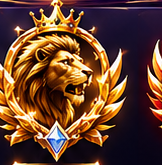
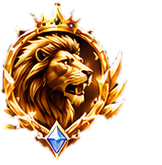
R101: ترتيب صفحة الغرف + قائمة، حذف غرفتك من القائمة، القوانين رسالة بالدردشة بدل النافذة، اللودو يركب بالشاشة، الملف الشخصي مرتب، شارات بدون خلفية مقصوصة
Claude-Session: https://claude.ai/code/session_013Dw5YXk6gdhBXsie6KboY7

diff --git a/public/social-directory-r30.js b/public/social-directory-r30.js
@@ -1,7 +1,7 @@
 import {roomPhotoFields} from './room-photo-r31.js?v=room-photo-r31';
 import { roomTier, roomChipHTML, roomLevelClasses, ROOM_LEVEL_MAX } from './room-level-r67.js?v=r67av';
 import {tierChip,perkActive} from './unified/room-rank-r58.js?v=r63a';
-import { bannersHTML } from './unified/home-r68.js?v=r95';
+import { bannersHTML } from './unified/home-r68.js?v=r101';
 /* LA3BAK R30 directory: pure HTML/data helpers. The existing parent controller
  * owns requests, delegated actions, keyboard handling, dialogs and repaint focus.
  * No fake rooms, ratings, rankings, image imports, storage or event listeners. */
@@ -120,7 +120,7 @@ function roomRow(room, options) {
   const rt = typeof room.rank?.tier === 'string' ? room.rank.tier : '';
   const sub = String(room.description || '').trim() || [room.roomTag ? TAGS[room.roomTag] : 'دردشة', room.country ? COUNTRIES[room.country] || room.country : '', room.roomMode === 'social' ? 'تعارف' : ''].filter(Boolean).join(' • ');
   const ic = lv >= 100 ? 'crown' : R68_TAGICON[room.roomTag] || 'games';
-  return `<li class="so-dir-row r68-dir-row${current ? ' is-current' : ''} rl-${tier} ${roomLevelClasses(lv)}${rt && perkActive(rt, 'list') ? ' rr-list-' + esc(rt) : ''}" data-room-tier="${esc(rt)}" data-room-level="${lv}" data-so-directory-room="${esc(room.id)}" data-so-current="${current}"><button type="button" class="so-dir-enter" data-so-action="enter" data-id="${esc(room.id)}" aria-label="${esc(`${current ? 'العودة إلى' : 'دخول'} غرفة ${name}`)}"${disabled ? ' disabled' : ''}><span class="so-dir-cover">${cover}</span><span class="so-dir-room-copy"><span class="so-dir-room-title"><b dir="auto">${esc(name)}</b>${lv >= 300 ? '<i class="rl67-crown-ic" aria-hidden="true">👑</i>' : ''}</span><small class="r68-dir-sub" dir="auto">${esc(sub)}</small><span class="r68-dir-tags" dir="rtl">${rt ? tierChip(rt, 'd' + esc(room.id).slice(0, 6)) : ''}${room.weekRank ? `<span class="wk62 wk62-${room.weekRank}">${['🥇', '🥈', '🥉'][room.weekRank - 1]}</span>` : ''}${owned ? '<span class="so-dir-owned">غرفتك</span>' : ''}${current ? '<span class="so-dir-current-label">أنت هنا</span>' : ''}<span class="r68-dir-lv" dir="ltr"><i aria-hidden="true">◆</i>Lv.${lv}</span></span></span><span class="r68-dir-side"><span class="r68-dir-ic" aria-hidden="true">${R68_ICONS[ic]}</span><span class="r68-dir-count" dir="ltr">${hasCount(room) ? esc(room.count) : '—'}${BARS}</span></span></button></li>`;
+  return `<li class="so-dir-row r68-dir-row${current ? ' is-current' : ''} rl-${tier} ${roomLevelClasses(lv)}${rt && perkActive(rt, 'list') ? ' rr-list-' + esc(rt) : ''}" data-room-tier="${esc(rt)}" data-room-level="${lv}" data-so-directory-room="${esc(room.id)}" data-so-current="${current}"><button type="button" class="so-dir-enter" data-so-action="enter" data-id="${esc(room.id)}" aria-label="${esc(`${current ? 'العودة إلى' : 'دخول'} غرفة ${name}`)}"${disabled ? ' disabled' : ''}><span class="so-dir-cover">${cover}</span><span class="so-dir-room-copy"><span class="so-dir-room-title"><b dir="auto">${esc(name)}</b>${lv >= 300 ? '<i class="rl67-crown-ic" aria-hidden="true">👑</i>' : ''}</span><small class="r68-dir-sub" dir="auto">${esc(sub)}</small><span class="r68-dir-tags" dir="rtl">${rt ? tierChip(rt, 'd' + esc(room.id).slice(0, 6)) : ''}${room.weekRank ? `<span class="wk62 wk62-${room.weekRank}">${['🥇', '🥈', '🥉'][room.weekRank - 1]}</span>` : ''}${owned ? '<span class="so-dir-owned">غرفتك</span>' : ''}${current ? '<span class="so-dir-current-label">أنت هنا</span>' : ''}<span class="r68-dir-lv" dir="ltr"><i aria-hidden="true">◆</i>Lv.${lv}</span></span></span><span class="r68-dir-side"><span class="r68-dir-ic" aria-hidden="true">${R68_ICONS[ic]}</span><span class="r68-dir-count" dir="ltr">${hasCount(room) ? esc(room.count) : '—'}${BARS}</span></span></button>${owned ? `<button type="button" class="r101-del" data-so-action="dir-delete" data-id="${esc(room.id)}" aria-label="${esc('حذف غرفة ' + name)}"${disabled ? ' disabled' : ''}><svg viewBox="0 0 24 24" width="18" height="18" aria-hidden="true"><path d="M4 7h16M9 7V4h6v3M6 7l1 13h10l1-13M10 11v6M14 11v6" stroke="currentColor" stroke-width="2" fill="none" stroke-linecap="round" stroke-linejoin="round"/></svg></button>` : ''}</li>`;
 }
 function emptyState(state, filtered, disabled) {
   let title, body, art = 'room';
@@ -143,7 +143,7 @@ export function renderDirectory({data = null, ui = {}, busy = false, loading = f
   const filtered = Boolean(state.query.trim() || state.category !== 'all' || state.country);
   const initialLoading = loading && data == null;
   const panel = `${state.tab === 'mine' ? `<div class="so-dir-mine-panel" id="so-directory-mine-panel-r30" role="tabpanel" aria-labelledby="so-directory-mine-${state.mineTab}-r30"><div class="so-dir-create-banner"><span class="so-dir-banner-icon">${icon('room')}</span><div><b>مساحة على ذوقك</b><p>أنشئ غرفة وابدأ حديثاً يناسبك.</p></div><button type="button" class="so-dir-create-button" data-so-action="create-room"${actionDisabled ? ' disabled' : ''}><span>إنشاء الغرفة</span></button></div>` : ''}<div class="so-dir-list-heading"><h2>${state.tab === 'mine' ? esc(MINE_TABS[state.mineTab]) : state.tab === 'popular' ? 'أكثر الغرف هدايا هالأسبوع' : state.tab === 'rank' ? 'ترتيب الغرف حسب الرتبة' : 'الغرف المتاحة'}</h2>${data != null ? `<span>${esc(rooms.length)} غرفة${state.tab === 'popular' ? ' · حسب عدد الأعضاء' : ''}</span>` : ''}</div>${initialLoading ? '<p class="so-dir-loading" role="status">جارٍ تحميل الغرف من الخادم…</p>' : rooms.length ? `<ul class="so-dir-rooms" aria-label="قائمة الغرف">${rooms.map(room => roomRow(room, {data, followed, owned, actorId, busy, disabled})).join('')}</ul>` : error && data == null ? '<div class="so-dir-empty"><h2>تعذر تحميل الغرف</h2><p>أعد المحاولة عند عودة الاتصال. لا نعرض غرفاً دون بيانات.</p></div>' : state.tab==='mine'&&state.mineTab==='recent'&&!filtered&&data?.preferences?.remember!==true?`<div class="so-dir-empty" role="status"><span class="so-dir-empty-icon">${icon('clock')}</span><h2>سجل الغرف غير مفعّل</h2><p>تقدر تفعّل حفظ الغرف الأخيرة من إعدادات خصوصيتك. المتابعة تعمل بدون حفظ السجل.</p><button type="button" class="so-dir-text-button" data-so-action="preferences">إعدادات الخصوصية</button></div>` : emptyState(state, filtered, actionDisabled)}${state.tab === 'mine' ? '</div>' : ''}`;
-  return `<section class="so-directory-r30" dir="rtl" aria-labelledby="so-directory-title-r30" aria-busy="${Boolean(busy || loading)}"><header class="so-dir-header r68-dir-head"><span class="r68-dir-logo" aria-hidden="true"><i>👑</i><b>لعبك</b><small>LA3BAK</small></span><h1 id="so-directory-title-r30" class="so-dir-sr">الغرف</h1><nav class="r68-dir-tabs" dir="rtl"><div class="r68-dir-main" role="tablist">${['mine','all','country'].map(v=>`<button type="button" role="tab" class="${state.tab===v?'is-on':''}" aria-selected="${state.tab===v}" data-so-action="directory-tab" data-value="${v}">${TABS[v]}</button>`).join('')}</div><div class="r68-dir-tools"><a class="r68-news" href="#/events" aria-label="الأخبار والفعاليات"><span aria-hidden="true">🔥</span><b>أخبار</b></a><button type="button" class="r68-dir-ibtn" data-so-action="create-room" aria-label="إنشاء غرفة"${actionDisabled ? ' disabled' : ''}><span aria-hidden="true">🎉</span></button><button type="button" class="r68-dir-ibtn${state.searchOpen ? ' is-active' : ''}" data-so-action="directory-search" data-value="${state.searchOpen ? 'hide' : 'show'}" aria-label="${state.searchOpen ? 'إغلاق البحث' : 'البحث في الغرف'}" aria-expanded="${state.searchOpen}" aria-controls="so-directory-search-r30">${icon(state.searchOpen ? 'close' : 'search')}</button></div></nav></header><div data-h68-banner-host>${bannersHTML(null)}</div><div class="r68-dir-big"><button type="button" class="is-gold${state.tab==='popular'?' is-on':''}" data-so-action="directory-tab" data-value="popular"><b>هدايا الغرفة</b><span aria-hidden="true">🎁</span></button><button type="button" class="is-violet${state.tab==='rank'?' is-on':''}" data-so-action="directory-tab" data-value="rank"><b>رُتبة الغرفة</b><span class="r68-t" aria-hidden="true">T</span></button></div><div class="so-dir-search" id="so-directory-search-r30"${state.searchOpen ? '' : ' hidden'}><label for="so-directory-query-r30">${icon('search')}<span class="so-dir-sr">البحث في الغرف</span></label><input id="so-directory-query-r30" type="search" name="directoryQuery" data-so-directory-query value="${esc(state.query)}" placeholder="ابحث باسم الغرفة أو تصنيفها" maxlength="120" autocomplete="off" enterkeyhint="search" dir="auto"></div><div class="so-dir-feedback" aria-live="polite">${error ? `<p class="so-dir-error" role="alert">${esc(error)}</p>` : ''}${notice ? `<p class="so-dir-notice" role="status">${esc(notice)}</p>` : ''}${disabled ? '<p class="so-dir-error" role="status">الغرف الاجتماعية متوقفة مؤقتاً من الإدارة.</p>' : ''}${loading && !initialLoading ? '<p class="so-dir-update" role="status">جارٍ تحديث القائمة…</p>' : ''}</div><div class="so-dir-panel" id="so-directory-panel-r30" role="tabpanel" aria-labelledby="so-directory-main-${state.tab}-r30">${state.tab === 'mine' ? tabRail(MINE_TABS, state.mineTab, 'directory-mine', 'غرفتي', 'mine') : ''}${categoryRail(state)}${state.tab === 'country' || state.country ? countryRail(data, state) : ''}${panel}</div></section>`;
+  return `<section class="so-directory-r30" dir="rtl" aria-labelledby="so-directory-title-r30" aria-busy="${Boolean(busy || loading)}"><header class="so-dir-header r68-dir-head"><span class="r68-dir-logo" aria-hidden="true"><i>👑</i><b>لعبك</b><small>LA3BAK</small></span><h1 id="so-directory-title-r30" class="so-dir-sr">الغرف</h1><nav class="r68-dir-tabs" dir="rtl"><div class="r68-dir-main" role="tablist">${['mine','all','country'].map(v=>`<button type="button" role="tab" class="${state.tab===v?'is-on':''}" aria-selected="${state.tab===v}" data-so-action="directory-tab" data-value="${v}">${TABS[v]}</button>`).join('')}</div><div class="r68-dir-tools"><button type="button" class="r68-dir-ibtn r101-menu" data-lb-shell="menu" aria-label="القائمة" aria-expanded="false"><svg viewBox="0 0 24 24" width="22" height="22" aria-hidden="true"><path d="M4 7h16M4 12h16M4 17h16" stroke="currentColor" stroke-width="2.4" stroke-linecap="round" fill="none"/></svg></button><a class="r68-news" href="#/events" aria-label="الأخبار والفعاليات"><span aria-hidden="true">🔥</span><b>أخبار</b></a><button type="button" class="r68-dir-ibtn" data-so-action="create-room" aria-label="إنشاء غرفة"${actionDisabled ? ' disabled' : ''}><span aria-hidden="true">🎉</span></button><button type="button" class="r68-dir-ibtn${state.searchOpen ? ' is-active' : ''}" data-so-action="directory-search" data-value="${state.searchOpen ? 'hide' : 'show'}" aria-label="${state.searchOpen ? 'إغلاق البحث' : 'البحث في الغرف'}" aria-expanded="${state.searchOpen}" aria-controls="so-directory-search-r30">${icon(state.searchOpen ? 'close' : 'search')}</button></div></nav></header><div data-h68-banner-host>${bannersHTML(null)}</div><div class="r68-dir-big"><button type="button" class="is-gold${state.tab==='popular'?' is-on':''}" data-so-action="directory-tab" data-value="popular"><b>هدايا الغرفة</b><span aria-hidden="true">🎁</span></button><button type="button" class="is-violet${state.tab==='rank'?' is-on':''}" data-so-action="directory-tab" data-value="rank"><b>رُتبة الغرفة</b><span class="r68-t" aria-hidden="true">T</span></button></div><div class="so-dir-search" id="so-directory-search-r30"${state.searchOpen ? '' : ' hidden'}><label for="so-directory-query-r30">${icon('search')}<span class="so-dir-sr">البحث في الغرف</span></label><input id="so-directory-query-r30" type="search" name="directoryQuery" data-so-directory-query value="${esc(state.query)}" placeholder="ابحث باسم الغرفة أو تصنيفها" maxlength="120" autocomplete="off" enterkeyhint="search" dir="auto"></div><div class="so-dir-feedback" aria-live="polite">${error ? `<p class="so-dir-error" role="alert">${esc(error)}</p>` : ''}${notice ? `<p class="so-dir-notice" role="status">${esc(notice)}</p>` : ''}${disabled ? '<p class="so-dir-error" role="status">الغرف الاجتماعية متوقفة مؤقتاً من الإدارة.</p>' : ''}${loading && !initialLoading ? '<p class="so-dir-update" role="status">جارٍ تحديث القائمة…</p>' : ''}</div><div class="so-dir-panel" id="so-directory-panel-r30" role="tabpanel" aria-labelledby="so-directory-main-${state.tab}-r30">${state.tab === 'mine' ? tabRail(MINE_TABS, state.mineTab, 'directory-mine', 'غرفتي', 'mine') : ''}${categoryRail(state)}${state.tab === 'country' || state.country ? countryRail(data, state) : ''}${panel}</div></section>`;
 }
 
 function optionsFrom(raw, approved, emptyAllowed = false) {

diff --git a/public/sw.js b/public/sw.js
@@ -1,10 +1,10 @@
 /* لعبك — عامل الخدمة: تحديث الشبكة أولاً، واللعب الجماعي يحتاج اتصال. */
 const CACHE_PREFIX = 'la3bak-shell-';
-const VER = CACHE_PREFIX + 'r100';
+const VER = CACHE_PREFIX + 'r101';
 const LEGACY_SHELL_CACHES = ['la3bak-rank-vip-1'];
 // Deduplicate exact URLs; keep the existing network-first/offline policy.
 // The unused legacy codewords image is not precached; the shipped R45 cover stays.
-const SHELL = [...new Set(['/root-navigation-r50.js?v=back-nav-r51', '/preview/assets/game-minaboli-3d-r49.webp', '/preview/assets/game-codewords-3d-r45.webp', '/emerald-r44.css?v=r58q', '/unified/emerald-room-r44.css?v=r58p', '/unified/gift-compact-r38.css?v=r58p','/unified/room-owner-start-r33.css?v=r58q','/social-room-tools-r33.css?v=r58p','/community-access-r37.js','/unified/notifications.js?v=r91','/social-room-tools-r33.js?v=r58p','/room-start-r33.js','/social-gift-context-r33.js','/gift3d-variants-r33.js','/unified/pk-reference-r32.css?v=r58p','/social-challenge.js?v=r57','/social-challenge.css?v=r58p','/room-photo-r31.js?v=room-photo-r31','/unified/room-photo-r31.css?v=r58q','/social-directory-r30.js?v=r95','/unified/room-directory-r30.css?v=r58q','/unified/room-style-r27.css?v=r58p', '/unified/reference-room-r28.css?v=r58q', '/unified/reference-panels-r28.css?v=r58q', '/unified/reference-gifts-r28.css?v=r58q', '/unified/gift-colors-r29.css?v=r58p', '/unified/room-dock-r29.css?v=r58p', '/cannon3d-r29.css?v=r58p', '/cannon3d-r29.js?v=r71-cannon-r29','/social-room-controls-r27.js?v=r67al','/gift3d-r27.js?v=r71-r44','/gift3d-r27.css','/gift-assets-r27.js?v=r69zz-r35','/social-gift-runtime-r27.js?v=r71','/social-cannon-ui-r27.js?v=r91','/social-challenge.js?v=r57','/social-challenge.css?v=r58p','/store-r23.css?v=r58p','/frame-art-r23.css?v=r58i2','/entrancefx-r23.js?v=r68z38e','/entrancefx-r23.css?v=emerald-r44','/preview/profile-head-r20.css?v=r58p', '/preview/profile-head-r22.css?v=r58p','/preview/profile-list-r19.css?v=r58p','/unified/room-composer-r18.css?v=r58p','/unified/global-search.js?v=r69zj-search-r17','/unified/global-search.css?v=r58p','/unified/search-icon.js?v=global-search-r17','/preview/profile-frame-r4.css?v=r58p', '/brand-royal-r16.css?v=r58p', '/preview/profile-host-r15.css?v=emerald-r44','/unified/ranks.js?v=r91', '/unified/ranks.css?v=r58p', '/unified/vip.js?v=r91', '/unified/vip.css?v=r58p', '/unified/vip-noble-r52.js?v=r91', '/unified/vip-noble-r52.css?v=r58q', '/profile-social-r53.js?v=r91', '/preview/profile-r53.css?v=r58q', '/preview/rank-overview.js?v=r66b', '/preview/rank-overview.css?v=r58p', '/preview/rank-current.css?v=r58p', '/unified/backgrounds.js?v=r91', '/unified/backgrounds.css?v=r58q', '/background-art.js?v=r58p', '/', '/preview.html?v=release-r14', '/app.css?v=r58q', '/reference-store.css?v=r58p', '/unified/home.css?v=r58p', '/unified/home.js?v=r95', '/unified/unified.css?v=r60d', '/unified/shell.js?v=r96', '/preview/profile.css?v=r58p', '/preview/profile-integration.css?v=r58p', '/preview/profile-match.css?v=r58q', '/preview/page-shell.css?v=r58p', '/preview/shop-modern.css?v=r58p', '/preview/app.js?v=r100', '/preview/profile.js?v=r98', '/preview/assets/profile/ui-icons-inline.js?v=r58p', '/preview/assets/profile/rank-display.js', '/pwa.js?v=r100', '/boot.js?v=r64a', '/theme.js?v=r64a', '/theme.js?v=r64a', '/royal-gameplay.css?v=r58p', '/royal-navigation.css?v=r58p', '/auth.js', '/manifest.webmanifest', '/favicon.svg', '/apple-touch-icon.png', '/game-availability.js?v=games-royal-1', '/games.js?v=r91',   '/offline.js?v=games-royal-1', '/unified/games.js?v=r91', '/unified/social.js?v=r96', '/rank-perks-r56.js?v=r67t', '/rank-perks-r56.css?v=r56', '/unified/social-r55.css?v=r69d', '/unified/social.css?v=r58p', '/social-voice.js?v=r69zr-r14', '/social-assets/majlis-atmosphere.webp', '/preview/rank-current.css?v=r58p', '/preview/rank-overview.js?v=r66b', '/unified/payments.js?v=r68i', '/account-tools.js?v=ui-correction-r3', '/account-verification.css?v=r58q', '/unified/social-room-r7.css?v=r58p', '/social-gifts.js?v=r91', '/social-assets/voice-night-r7.jpg', '/social-assets/friends-room-cover.webp', '/unified/wallet.js?v=r68i', '/shop.js?v=r91', '/unified/store.js?v=r91', '/unified/backgrounds.js?v=r91', '/unified/payments.js?v=r68i', '/unified/payments.css?v=r58p', '/unified/social-settings-r12.css?v=r58p', '/social-benefits.js?v=r91', '/unified/social-benefits-r12.css?v=r58q', '/gifts.js?v=r91', '/gift-reward-ui.js?v=r68i', '/unified/gift-rewards-r13.css?v=r58p', '/giftart.js?v=r68i-r14', '/unified/game-voice-r9.css?v=r58p'])];
+const SHELL = [...new Set(['/root-navigation-r50.js?v=back-nav-r51', '/preview/assets/game-minaboli-3d-r49.webp', '/preview/assets/game-codewords-3d-r45.webp', '/emerald-r44.css?v=r58q', '/unified/emerald-room-r44.css?v=r58p', '/unified/gift-compact-r38.css?v=r58p','/unified/room-owner-start-r33.css?v=r58q','/social-room-tools-r33.css?v=r58p','/community-access-r37.js','/unified/notifications.js?v=r91','/social-room-tools-r33.js?v=r58p','/room-start-r33.js','/social-gift-context-r33.js','/gift3d-variants-r33.js','/unified/pk-reference-r32.css?v=r58p','/social-challenge.js?v=r57','/social-challenge.css?v=r58p','/room-photo-r31.js?v=room-photo-r31','/unified/room-photo-r31.css?v=r58q','/social-directory-r30.js?v=r101','/unified/room-directory-r30.css?v=r58q','/unified/room-style-r27.css?v=r58p', '/unified/reference-room-r28.css?v=r58q', '/unified/reference-panels-r28.css?v=r58q', '/unified/reference-gifts-r28.css?v=r58q', '/unified/gift-colors-r29.css?v=r58p', '/unified/room-dock-r29.css?v=r58p', '/cannon3d-r29.css?v=r58p', '/cannon3d-r29.js?v=r71-cannon-r29','/social-room-controls-r27.js?v=r67al','/gift3d-r27.js?v=r71-r44','/gift3d-r27.css','/gift-assets-r27.js?v=r69zz-r35','/social-gift-runtime-r27.js?v=r71','/social-cannon-ui-r27.js?v=r91','/social-challenge.js?v=r57','/social-challenge.css?v=r58p','/store-r23.css?v=r58p','/frame-art-r23.css?v=r58i2','/entrancefx-r23.js?v=r68z38e','/entrancefx-r23.css?v=emerald-r44','/preview/profile-head-r20.css?v=r58p', '/preview/profile-head-r22.css?v=r58p','/preview/profile-list-r19.css?v=r58p','/unified/room-composer-r18.css?v=r58p','/unified/global-search.js?v=r69zj-search-r17','/unified/global-search.css?v=r58p','/unified/search-icon.js?v=global-search-r17','/preview/profile-frame-r4.css?v=r58p', '/brand-royal-r16.css?v=r58p', '/preview/profile-host-r15.css?v=emerald-r44','/unified/ranks.js?v=r101', '/unified/ranks.css?v=r58p', '/unified/vip.js?v=r101', '/unified/vip.css?v=r58p', '/unified/vip-noble-r52.js?v=r101', '/unified/vip-noble-r52.css?v=r58q', '/profile-social-r53.js?v=r91', '/preview/profile-r53.css?v=r58q', '/preview/rank-overview.js?v=r101', '/preview/rank-overview.css?v=r58p', '/preview/rank-current.css?v=r58p', '/unified/backgrounds.js?v=r91', '/unified/backgrounds.css?v=r58q', '/background-art.js?v=r58p', '/', '/preview.html?v=release-r14', '/app.css?v=r58q', '/reference-store.css?v=r58p', '/unified/home.css?v=r58p', '/unified/home.js?v=r101', '/unified/unified.css?v=r60d', '/unified/shell.js?v=r101', '/preview/profile.css?v=r58p', '/preview/profile-integration.css?v=r58p', '/preview/profile-match.css?v=r58q', '/preview/page-shell.css?v=r58p', '/preview/shop-modern.css?v=r58p', '/preview/app.js?v=r101', '/preview/profile.js?v=r101', '/preview/assets/profile/ui-icons-inline.js?v=r58p', '/preview/assets/profile/rank-display.js', '/pwa.js?v=r101', '/boot.js?v=r64a', '/theme.js?v=r64a', '/theme.js?v=r64a', '/royal-gameplay.css?v=r58p', '/royal-navigation.css?v=r58p', '/auth.js', '/manifest.webmanifest', '/favicon.svg', '/apple-touch-icon.png', '/game-availability.js?v=games-royal-1', '/games.js?v=r91',   '/offline.js?v=games-royal-1', '/unified/games.js?v=r91', '/unified/social.js?v=r101', '/rank-perks-r56.js?v=r67t', '/rank-perks-r56.css?v=r56', '/unified/social-r55.css?v=r69d', '/unified/social.css?v=r58p', '/social-voice.js?v=r69zr-r14', '/social-assets/majlis-atmosphere.webp', '/preview/rank-current.css?v=r58p', '/preview/rank-overview.js?v=r101', '/unified/payments.js?v=r68i', '/account-tools.js?v=ui-correction-r3', '/account-verification.css?v=r58q', '/unified/social-room-r7.css?v=r58p', '/social-gifts.js?v=r91', '/social-assets/voice-night-r7.jpg', '/social-assets/friends-room-cover.webp', '/unified/wallet.js?v=r68i', '/shop.js?v=r91', '/unified/store.js?v=r91', '/unified/backgrounds.js?v=r91', '/unified/payments.js?v=r68i', '/unified/payments.css?v=r58p', '/unified/social-settings-r12.css?v=r58p', '/social-benefits.js?v=r91', '/unified/social-benefits-r12.css?v=r58q', '/gifts.js?v=r91', '/gift-reward-ui.js?v=r68i', '/unified/gift-rewards-r13.css?v=r58p', '/giftart.js?v=r68i-r14', '/unified/game-voice-r9.css?v=r58p'])];
 self.addEventListener('install', (e) => {
   // R69zz: نحفظ الصفحة الرئيسية والكود المدموج بالجوال، عشان التطبيق يفتح على طول حتى لو النت ضعيف
   const bundle = (c) => fetch('/', { cache: 'reload' }).then((r) => (r.ok ? r.text() : '')).then((h) => Promise.all([...new Set([...h.matchAll(/\/b\/(?:app|c)-[\w-]+\.(?:js|css)/g)].map((m) => m[0]))].map((u) => c.add(new Request(u, { cache: 'reload' })).catch(() => {})))).catch(() => {});
@@ -24,7 +24,7 @@ self.addEventListener('fetch', (e) => {
   // الحين: الملف اللي فيه رقم نسخة (?v=) ما يتغير أبدًا → من الكاش على طول. الصور والملفات الثابتة بدون رقم → من الكاش ونحدّثها بالخلفية.
   // الصفحة نفسها (HTML) وملف sw → من الشبكة أول (عشان التحديثات توصل على طول)، والكاش لو ما فيه نت.
   const put = (res) => { if (res && res.ok && res.type === 'basic') { const copy = res.clone(); e.waitUntil(caches.open(VER).then((c) => c.put(req, copy)).catch(() => {})); } return res; };
-  const isPage = req.mode === 'navigate' || url.pathname === '/' || /\.(?:html|webmanifest)$/.test(url.pathname) || url.pathname === '/sw.js?v=r100';
+  const isPage = req.mode === 'navigate' || url.pathname === '/' || /\.(?:html|webmanifest)$/.test(url.pathname) || url.pathname === '/sw.js?v=r101';
   if (isPage) {
     /* R78: لو النت بطيء (أكثر من 3 ثواني) نفتح النسخة المحفوظة على طول مثل التطبيق، والجديدة تتحفظ بالخلفية للمرة الجاية */
     const cached = async () => { const c = await caches.open(VER); return (await c.match(req)) || (req.mode === 'navigate' ? await c.match('/') : undefined); };

diff --git a/public/app-feel-r78.css b/public/app-feel-r78.css
@@ -179,3 +179,73 @@ html body #view [data-lb-page="social"] .lb-copy79,html body #view [data-lb-page
 #view .pf97-head h1{margin:6px 0 4px;font-size:22px}
 #view .pf97-head p{margin:0;opacity:.8;font-size:14px}
 #view .pf97-login .lpu-login{display:grid;gap:14px;margin-top:12px}
+
+/* ===== R101: صفحة الغرف مرتبة ===== */
+html,body{overflow-x:hidden}
+.lb-unified{overflow-x:clip}
+#view .so-directory-r30 .r68-dir-head{gap:4px}
+#view .so-directory-r30 .r68-dir-logo{padding-top:4px!important}
+#view .so-directory-r30 .r68-dir-tools{gap:6px!important;align-items:center}
+#view .so-directory-r30 .r101-menu{order:-1;color:#fff}
+#view .so-directory-r30 [data-h68-banner-host]{display:none!important}
+#view .so-directory-r30 .r68-dir-big{display:flex!important;gap:8px!important;margin:6px 0 10px!important}
+#view .so-directory-r30 .r68-dir-big button{flex:1;height:44px!important;min-height:0!important;border-radius:14px!important;font-size:14px!important;padding:0 12px!important;display:flex;align-items:center;justify-content:center;gap:8px;box-shadow:none!important}
+#view .so-directory-r30 .r68-dir-big button b{font-size:14px!important}
+#view .so-directory-r30 .r68-dir-big button span{font-size:20px!important;width:26px!important;height:26px!important;line-height:26px!important;min-width:0!important}
+#view .so-directory-r30 .r68-dir-big .r68-t{font-size:14px!important;border-width:1px!important}
+#view .so-directory-r30 .so-dir-tabs{display:flex!important;gap:4px!important;background:rgba(255,255,255,.06);border-radius:999px;padding:4px!important;border:0!important;margin:4px 0 10px!important;box-shadow:none!important}
+#view .so-directory-r30 .so-dir-tabs button{flex:1;border:0!important;border-radius:999px!important;background:transparent!important;color:#d9ccef!important;font-size:14px!important;padding:8px 6px!important;min-height:0!important;box-shadow:none!important}
+#view .so-directory-r30 .so-dir-tabs button[aria-selected="true"]{background:linear-gradient(90deg,#f5c542,#e0a92e)!important;color:#2a1600!important;font-weight:800}
+#view .so-directory-r30 .so-dir-tabs button::after,#view .so-directory-r30 .so-dir-tabs::after{display:none!important}
+#view .so-directory-r30 .so-dir-categories{margin:0 0 10px!important}
+#view .so-directory-r30 .so-dir-chip{height:34px!important;min-height:0!important;padding:0 14px!important;font-size:13px!important}
+#view .so-directory-r30 .so-dir-create-banner{padding:10px 12px!important;border-radius:16px!important;min-height:0!important}
+#view .so-directory-r30 .so-dir-create-banner b{color:#fff!important;font-size:15px}
+#view .so-directory-r30 .so-dir-create-banner p{color:#cbbbe6!important;margin:2px 0 0!important;font-size:12.5px}
+#view .so-directory-r30 .so-dir-create-banner .so-dir-banner-icon{color:#f5c542}
+#view .so-directory-r30 .so-dir-create-button{background:linear-gradient(90deg,#f5c542,#e0a92e)!important;color:#2a1600!important;border:0!important;font-weight:800;padding:8px 14px!important;border-radius:12px!important}
+#view .so-directory-r30 .so-dir-empty{padding:22px 16px!important}
+#view .so-directory-r30 .so-dir-empty-icon{width:46px!important;height:46px!important;border-radius:14px!important}
+#view .so-directory-r30 .so-dir-empty h2{font-size:16px!important;margin:8px 0 4px!important}
+#view .so-directory-r30 .so-dir-empty p{font-size:13px!important}
+#view .so-directory-r30 .so-dir-empty a,#view .so-directory-r30 .so-dir-empty button{background:transparent!important;color:#f5c542!important;border:1px solid #f5c54288!important;border-radius:12px!important}
+/* صفوف الغرف أصغر */
+#view .so-directory-r30 .so-dir-rooms{gap:8px!important}
+#view .so-directory-r30 .r68-dir-row{position:relative}
+#view .so-directory-r30 .r68-dir-row .so-dir-enter{min-height:0!important;padding:10px!important;gap:10px!important}
+#view .so-directory-r30 .r68-dir-row .so-dir-cover{width:58px!important;height:58px!important;min-width:58px!important;border-radius:14px!important}
+#view .so-directory-r30 .r68-dir-row .so-dir-initial{font-size:26px!important}
+#view .so-directory-r30 .r68-dir-row .so-dir-room-title b{font-size:15px!important}
+#view .so-directory-r30 .r68-dir-row .r68-dir-sub{font-size:12px!important;margin:1px 0 3px!important}
+#view .so-directory-r30 .r101-del{position:absolute;top:50%;left:74px;transform:translateY(-50%);width:32px;height:32px;border-radius:50%;border:1px solid #ff6b8a66;background:#3a0f2a;color:#ff8aa3;display:grid;place-items:center;z-index:2}
+/* صندوق الهدايا العائم أصغر وما يغطي المحتوى */
+.rl69-fab{transform:scale(.62);transform-origin:left bottom}
+/* R101: اللعبة داخل الغرفة تاخذ المساحة الفعلية تحت الشريط (قبل كانت أطول من الشاشة وتنقص من تحت) */
+.gv-game-surface{container-type:size;padding:0!important;background:#140a26!important}
+@supports (height:1cqh){
+  html body .gv-game-surface :is(.jk-screen.v2,.cr-screen,.cw-screen){--rg-height:100cqh;--rg-width:100cqw}
+}
+.gv-game-surface :is(.jk-screen.v2){background:#140a26!important}
+/* ===== R101: الملف الشخصي مرتب ===== */
+#view .pf68 .pf68-av{width:124px!important;height:124px!important;margin:-110px auto 0!important}
+#view .pf68 .pf68-portrait,#view .pf68 .pf68-ring{width:120px!important;height:120px!important}
+#view .pf68 .pf68-ring .avatar-wrap{width:110px!important;height:110px!important;overflow:hidden;border-radius:50%}
+#view .pf68 .pf68-ring .avatar-wrap>svg,#view .pf68 .pf68-ring .avatar-wrap>img,#view .pf68 .pf68-ring .avatar-wrap .avatar-svg{width:100%!important;height:100%!important;object-fit:cover;border-radius:50%}
+#view .pf68 .pf68-cam{width:30px!important;height:30px!important}
+/* الاسم في سطر لحاله تحت الصورة، وتحته الأزرار */
+#view .pf68 .pf68-mid{grid-template-columns:auto 1fr auto!important;grid-template-areas:"who who who" "lv . edit"!important;row-gap:10px!important;padding:14px 14px 0!important;margin-top:4px}
+#view .pf68 .pf68-who{grid-area:who;min-width:0}
+#view .pf68 .pf68-lv{grid-area:lv;justify-self:start!important}
+#view .pf68 .pf68-edit{grid-area:edit;justify-self:end;height:34px!important;min-height:0!important;padding:0 12px!important;font-size:13px!important}
+#view .pf68 .pf68-name{font-size:20px!important;flex-wrap:wrap;row-gap:4px}
+#view .pf68 .pf68-name>span{max-width:220px!important}
+#view .pf68 .pf68-vip{font-size:12px!important;padding:1px 8px!important}
+#view .pf68 .pf68-id{font-size:14px!important;margin-top:6px!important}
+#view .pf68 .pf68-id .aid68{transform:scale(.78);transform-origin:center}
+#view .pf68 .pf68-lvmedal{width:40px!important;height:40px!important}
+#view .pf68 .pf68-lvmedal i{top:-11px!important;font-size:15px!important}
+#view .pf68 .pf68-lvmedal small{font-size:8px!important}
+#view .pf68 .pf68-lvmedal b{font-size:14px!important}
+#view .pf68 .pf68-bio{margin-top:10px!important}
+/* شاراتي: الصورة كاملة بدون قص */
+#view .pf68 :is(.pf68-badges,[class*="badge"]) img{object-fit:contain!important;background:transparent!important}

diff --git a/public/unified/social.js b/public/unified/social.js
@@ -4,7 +4,7 @@ import {createRoomToolsR33} from '../social-room-tools-r33.js?v=r58p';
 import {SOCIAL_GAME_LABELS_R47,renderSocialGame,normalizeSocialGameActionR47,createSocialGamesR47} from '../social-games-r47.js?v=r58p';
 import {renderUpgradePanel,roomUpgradeConfirmationR47,roomUpgradeErrorR47} from '../room-upgrade-r47.js?v=build-all-r47';
 import {roomPhotoFields,createRoomPhotoPicker} from '../room-photo-r31.js?v=room-photo-r31';
-import {renderDirectory,renderCreateFields,validateCreate} from '../social-directory-r30.js?v=r95';
+import {renderDirectory,renderCreateFields,validateCreate} from '../social-directory-r30.js?v=r101';
 import {createOwnerRoomStart,confirmedOwnerSeat,startOwnerVoice,ownerStartFeedback} from '../room-start-r33.js?v=room-owner-start-r33';
 import {themeName,themeCards,applyRoomTheme,seatLockCards} from '../social-room-controls-r27.js?v=r67al';
 import {framed as frameOwnedPortrait} from '../shop.js?v=r91';
@@ -441,7 +441,7 @@ function roomMenuGridHTML(c,ui,council){
     !c.ctx.gameRoom?panelTile('supporters','heart','الداعمين'):'',
     tile('info','info','معلومات الغرفة'),
     !joined?tile('join-room','plus','دخول الغرفة','','is-primary'):'',
-    mine&&!c.ctx.gameRoom?tile('room-delete','trash','حذف الغرفة','','is-danger'):'',
+    mine?tile('room-delete','trash','حذف الغرفة','','is-danger'):'',
   ].filter(Boolean).join('');
   return `<nav class="so-menu-grid-r55" data-so-room-tools aria-label="قائمة الغرفة">${tiles}</nav>`;
 }
@@ -641,6 +641,8 @@ function chatBase69(c,council){
 }
 /* R69zs: تحذير عدم الإساءة أول ما تدخل أي غرفة صوتية */
 function roomWarn69(c,force){
+  /* R101: بدل النافذة اللي تسكّر الشاشة، القوانين تطلع كرسالة إعلان داخل الدردشة */
+  return;
   const id=c.snapshot?.room?.id;if(!id||c.warn69===id||c.snapshot?.current?.roomId!==id)return;if(!force&&c.ctx.gameRoom&&document.documentElement.classList.contains('gv-game-open'))return;c.warn69=id;
   queueMicrotask(()=>{
     document.querySelector('.rw69')?.remove();
@@ -1227,6 +1229,8 @@ export function mount(root,ctx={}) {
       if(action==='seat'&&c.snapshot.preferences?.adultAcknowledged!==true)return requireAdult(async()=>{await ensureSeat();await voiceConnect(c);});
       if(action==='seat') {const council=arr(c.snapshot?.room?.councils).find(x=>x.id===id);if(!council)throw Error('المجلس غير متاح.');const seats=Number(council.seats),count=Math.max(Number(council.count)||0,arr(council.members).length);if(!Number.isFinite(seats)||count>=seats)throw Error('لا يوجد مقعد متاح الآن. حدّث الحالة.');if(currentCouncil(c)?.id===id){if(councilModerator(c)){return openDialog('دعوة صديق إلى مقعد متاح',field('targetId','رقم اللاعب العام أو المميز','text','',64)+'<p class="so-note">الدعوة لا تحجز مقعدًا ولا تتجاوز السعة أو إعدادات اللاعب.</p>',async f=>command(c,'council:invite',{roomId:c.routeRoom,councilId:id,targetId:f.elements.targetId.value.trim()}),'إرسال الدعوة');}return openDialog('أنت في المجلس بالفعل','<p>لديك مقعد في هذا المجلس. لا يمكن أخذ مقعد ثانٍ. يمكنك مشاركة رابط الغرفة أو انتظار انضمام صديق.</p><div class="so-actions">'+button('share','مشاركة رابط الغرفة')+'</div>',null,'إغلاق');}if(council.canJoin){await command(c,'council:join',{roomId:c.routeRoom,councilId:id});if(currentCouncil(c))await voiceConnect(c);return;}if(council.canRequest)return command(c,'council:request',{roomId:c.routeRoom,councilId:id});throw Error('لا يمكنك الانضمام إلى هذا المجلس حاليًا.');}
       if(action==='refresh') return read(c);
+      /* R101: حذف غرفتك من القائمة مباشرة */
+      if(action==='dir-delete'){const room=arr(c.list?.rooms).find(item=>item.id===id);if(!room)throw Error('الغرفة لم تعد متاحة؛ حدّث القائمة.');return openDialog('حذف الغرفة',`<p>متأكد تبي تحذف «${esc(room.name||'الغرفة')}» نهائيًا؟</p>`,async()=>{await command(c,'room:delete',{roomId:id});c.notice='انحذفت الغرفة ✅';c.notify();},'حذف نهائي');}
       if(action==='retry') {
         if(!ctx.gameRoom&&c.creationRecord&&Object.values(c.creationRecord.keys||{}).includes(c.pending?.key))return requireAdult(openOwnerCreation);
         const resume=async()=>{const name=c.pending?.command;const result=await command(c,'',{},true);if(result?.roomId&&['room:create','room:join','council:return'].includes(name)&&result.roomId!==c.routeRoom){if(alive)(globalThis.__LA3BAK_NAV__ || location).hash=roomURL(result.roomId);return;}if(result&&['council:join','council:return'].includes(name)&&currentCouncil(c))await voiceConnect(c);};

diff --git a/public/preview/app.js b/public/preview/app.js
@@ -3,10 +3,10 @@ let PKLOADED = false;
 import * as RES from '../result-r69.js?v=r69zu';
 import * as RESUME from '../resume-r69.js?v=r69zl';
 import { createGlobalSearch } from '../unified/global-search.js?v=r69zj-search-r17';
-import * as PR from './profile.js?v=r98';
-import * as UNIFIED from '../unified/shell.js?v=r96';
-import * as REF from '../unified/home.js?v=r95';
-import * as SOCIAL from '../unified/social.js?v=r96';
+import * as PR from './profile.js?v=r101';
+import * as UNIFIED from '../unified/shell.js?v=r101';
+import * as REF from '../unified/home.js?v=r101';
+import * as SOCIAL from '../unified/social.js?v=r101';
 const { leaveSocial, refreshSocial } = SOCIAL;
 import { isRetiredGame, visibleGameCatalogue, retiredGameHTML } from '../game-availability.js?v=games-royal-1';
 import { createSocialGiftStore } from '../social-gifts.js?v=r91';
@@ -26,7 +26,7 @@ import * as FS from '../fullscreen.js?v=shell-r6';
 import { mountSprite } from '../characters.js?v=shell-r6';
 mountSprite();
 import * as SEASON from '../seasons.js?v=shell-r6';
-import * as PF from '../profile.js?v=r98';
+import * as PF from '../profile.js?v=r101';
 import * as SHOP from '../shop.js?v=r91';
 import * as GIFT from '../gifts.js?v=r91';
 import * as GFX from '../giftfx.js?v=r68i';
@@ -47,10 +47,10 @@ import * as CITY from '../city.js?v=r57';
 import * as COM from '../community.js?v=r91';
 import { isCommunityRestricted } from '../community-access-r37.js';
 import * as THEME from '../theme.js?v=r64a';
-import * as PWA from '../pwa.js?v=r100';
+import * as PWA from '../pwa.js?v=r101';
 import * as SFX from '../sfx.js?v=r69zu-r6';
 import * as OFF from '../offline.js?v=games-royal-1';
-import * as MIS from '../missions.js?v=r98';
+import * as MIS from '../missions.js?v=r101';
 import * as SP from '../social-plus-r73.js?v=r92';
 import '../mute-r88.js?v=r88';
 import * as CHAT from '../chat.js?v=r91';
@@ -457,7 +457,7 @@ function unifiedContext(page, content='') {
 /* R60: الإعدادات/الخصوصية/معلومات الحساب (قوائم صفوف مثل فيديو المالك) */
 let S60 = null;
 async function settingsR60(view, name) {
-  const M = await import('../settings-r60.js?v=r100');
+  const M = await import('../settings-r60.js?v=r101');
   const st = { msg: '', bad: false, priv: null, settings: null };
   const paint = () => {
     if (parseRoute().name !== name) return;

diff --git a/public/preview.html b/public/preview.html
@@ -23,10 +23,10 @@
 <title>معاينة التصميم | لعبك | LA3BAK — جمعتكم تبدأ هنا!</title>
 <link rel="icon" href="/favicon-r84.png" type="image/png" sizes="64x64">
 <!-- Exact URLs used by app.js/shell.js: modulepreload warms, never forks module state. -->
-<link rel="modulepreload" href="/preview/app.js?v=r100">
-<link rel="modulepreload" href="/unified/shell.js?v=r96">
-<link rel="modulepreload" href="/unified/home.js?v=r95">
-<link rel="modulepreload" href="/preview/profile.js?v=r98">
+<link rel="modulepreload" href="/preview/app.js?v=r101">
+<link rel="modulepreload" href="/unified/shell.js?v=r101">
+<link rel="modulepreload" href="/unified/home.js?v=r101">
+<link rel="modulepreload" href="/preview/profile.js?v=r101">
 <link rel="stylesheet" href="/app.css?v=r58q">
 <link rel="stylesheet" href="/reference-store.css?v=r58p">
 <link rel="stylesheet" href="/unified/home.css?v=r58p">
@@ -93,7 +93,7 @@
 <link rel="stylesheet" href="/badge-r64.css?v=r66a">
 <link rel="stylesheet" href="/polish-r69.css?v=r74b">
 <link rel="stylesheet" href="/compact-r75.css?v=r76">
-<link rel="stylesheet" href="/app-feel-r78.css?v=r98">
+<link rel="stylesheet" href="/app-feel-r78.css?v=r101">
 <style id="skel-r78">.skel78{position:fixed;inset:0;z-index:1;display:flex;flex-direction:column;direction:rtl;pointer-events:none;font-family:system-ui,-apple-system,sans-serif}
 .skel78 .sk-top{height:64px;display:flex;align-items:center;justify-content:space-between;padding:0 14px;padding-top:env(safe-area-inset-top)}
 .skel78 .sk-logo{font-size:30px;font-weight:900;color:#c79bff}
@@ -163,10 +163,10 @@ html:not(.lb-dark) .skel78 .sk-nav{background:#fff}
 <script type="module" src="/profile-bg-r67.js?v=r91"></script>
 <script type="module" src="/broadcast-r67.js?v=r67ao"></script>
 <script type="module" src="/gold-chest-r69.js?v=r69za"></script>
-<script type="module" src="/app-r69.js?v=r100"></script>
+<script type="module" src="/app-r69.js?v=r101"></script>
 <script type="module" src="/room-level-r67.js?v=r67av"></script>
 <script type="module" src="/account-delete-r67.js?v=r67at"></script>
 <script type="module" src="/tribe-r58.js?v=r63a"></script>
-<script type="module" src="/preview/app.js?v=r100"></script>
+<script type="module" src="/preview/app.js?v=r101"></script>
 </body>
 </html>

diff --git a/public/index.html b/public/index.html
@@ -27,10 +27,10 @@
 <title>LA3BAK | لعبك — الملف الشخصي والألعاب</title>
 <link rel="icon" href="/favicon-r84.png" type="image/png" sizes="64x64">
 <!-- Exact URLs used by app.js/shell.js: modulepreload warms, never forks module state. -->
-<link rel="modulepreload" href="/preview/app.js?v=r100">
-<link rel="modulepreload" href="/unified/shell.js?v=r96">
-<link rel="modulepreload" href="/unified/home.js?v=r95">
-<link rel="modulepreload" href="/preview/profile.js?v=r98">
+<link rel="modulepreload" href="/preview/app.js?v=r101">
+<link rel="modulepreload" href="/unified/shell.js?v=r101">
+<link rel="modulepreload" href="/unified/home.js?v=r101">
+<link rel="modulepreload" href="/preview/profile.js?v=r101">
 <link rel="stylesheet" href="/app.css?v=r58q">
 <link rel="stylesheet" href="/reference-store.css?v=r58p">
 <link rel="stylesheet" href="/unified/home.css?v=r58p">
@@ -107,7 +107,7 @@
 <link rel="stylesheet" href="/badge-r64.css?v=r66a">
 <link rel="stylesheet" href="/polish-r69.css?v=r74b">
 <link rel="stylesheet" href="/compact-r75.css?v=r76">
-<link rel="stylesheet" href="/app-feel-r78.css?v=r98">
+<link rel="stylesheet" href="/app-feel-r78.css?v=r101">
 <style id="skel-r78">.skel78{position:fixed;inset:0;z-index:1;display:flex;flex-direction:column;direction:rtl;pointer-events:none;font-family:system-ui,-apple-system,sans-serif}
 .skel78 .sk-top{height:64px;display:flex;align-items:center;justify-content:space-between;padding:0 14px;padding-top:env(safe-area-inset-top)}
 .skel78 .sk-logo{font-size:30px;font-weight:900;color:#c79bff}
@@ -177,10 +177,10 @@ html:not(.lb-dark) .skel78 .sk-nav{background:#fff}
 <script type="module" src="/profile-bg-r67.js?v=r91"></script>
 <script type="module" src="/broadcast-r67.js?v=r67ao"></script>
 <script type="module" src="/gold-chest-r69.js?v=r69za"></script>
-<script type="module" src="/app-r69.js?v=r100"></script>
+<script type="module" src="/app-r69.js?v=r101"></script>
 <script type="module" src="/room-level-r67.js?v=r67av"></script>
 <script type="module" src="/account-delete-r67.js?v=r67at"></script>
 <script type="module" src="/tribe-r58.js?v=r63a"></script>
-<script type="module" src="/preview/app.js?v=r100"></script>
+<script type="module" src="/preview/app.js?v=r101"></script>
 </body>
 </html>

diff --git a/public/unified/shell.js b/public/unified/shell.js
@@ -1,7 +1,7 @@
 import { SEARCH_ICON } from './search-icon.js?v=global-search-r17';
 import { nav68HTML } from '../nav-r68.js?v=r79';
-import { headerHTML as head68 } from './home-r68.js?v=r95';
-import * as home from './home.js?v=r95';
+import { headerHTML as head68 } from './home-r68.js?v=r101';
+import * as home from './home.js?v=r101';
 import {renderProfileIcon as icon} from '../preview/assets/profile/ui-icons-inline.js?v=r58p';
 import {giftArt} from '../giftart.js?v=r68i-r14';
 import * as rooms from './rooms.js?v=r58p';
@@ -15,9 +15,9 @@ import * as games from './games.js?v=r91';
 import * as settings from './settings.js?v=r58p';
 import * as store from './store.js?v=r91';
 import * as payments from './payments.js?v=r68i';
-import * as ranks from './ranks.js?v=r91';
-import * as vip from './vip.js?v=r91';
-import * as social from './social.js?v=r96';
+import * as ranks from './ranks.js?v=r101';
+import * as vip from './vip.js?v=r101';
+import * as social from './social.js?v=r101';
 const modules={home,rooms,wallet,notifications,messages,friends,ranking,games,settings,store,payments,ranks,vip,social};
 export const routes=Object.freeze(['home','rooms','social-rooms','social-room','wallet','notifications','notifications-internal','messages','friends','leaderboard','games','settings','shop','payments','ranks','vip','game','hub','room','join','city','lobby','play','offline','daily','challenge','events','tournaments','support','contact','auction','family','missions','wheel','phone','ids','visitors','invite','verification','rank-rewards','about','privacy','terms','agreement','privacy-settings','account-info','devices','hidden-posts','community','post','u','not-found','league','watch','themes','twofa','passkeys']);
 export const hasRoute=name=>routes.includes(name);

diff --git a/public/settings-r60.js b/public/settings-r60.js
@@ -197,7 +197,7 @@ const pushSupported = () => 'serviceWorker' in navigator && 'PushManager' in win
 const isIOS = () => /iPad|iPhone|iPod/.test(navigator.userAgent) || (navigator.platform === 'MacIntel' && navigator.maxTouchPoints > 1);
 const standalone = () => matchMedia('(display-mode: standalone)').matches || navigator.standalone === true;
 const keyBytes = (b64) => { const s = atob((b64 + '='.repeat((4 - b64.length % 4) % 4)).replace(/-/g, '+').replace(/_/g, '/')); return Uint8Array.from(s, (c) => c.charCodeAt(0)); };
-async function pushReg() { return (await navigator.serviceWorker.getRegistration()) || navigator.serviceWorker.register('/sw.js?v=r100'); }
+async function pushReg() { return (await navigator.serviceWorker.getRegistration()) || navigator.serviceWorker.register('/sw.js?v=r101'); }
 function pushPaint(root, on, note) { const b = root.querySelector('[data-s60-push]'); const n = root.querySelector('[data-s60-push-note]'); if (b) { b.classList.toggle('is-on', !!on); b.setAttribute('aria-checked', String(!!on)); } if (n) n.textContent = note || ''; }
 export async function pushState(root) {
   if (!root.querySelector('[data-s60-push]')) return;

diff --git a/public/unified/vip.js b/public/unified/vip.js
@@ -1,8 +1,8 @@
 /* VIP BODY only. No client crediting, balance deduction, fake perks or sample packs.
  * Only server-approved offers can proceed to preview and explicit confirmation. */
 import { EFFECTS as PERK_EFFECTS, effectArt, effectKindLabel } from '../rank-perks-r56.js?v=r67t';
-import * as R from './rank-vip-shared.js?v=r66b';
-import * as V from './vip-noble-r52.js?v=r91';
+import * as R from './rank-vip-shared.js?v=r101';
+import * as V from './vip-noble-r52.js?v=r101';
 const { esc, obj, list, nat, fmt, icon, artwork } = R;
 const STATUS_NAMES = Object.freeze({ active: 'عضوية نشطة', inactive: 'عضوية غير مفعّلة', expired: 'انتهت صلاحية العضوية', legacy: 'رتبة VIP سابقة · دون عضوية مؤرخة' });
 const BENEFIT_SYMBOLS = Object.freeze({ frame: 'frame', title: 'crown', badge: 'medal', bg: 'image', background: 'image', effect: 'star', social: 'users' });

diff --git a/public/pwa.js b/public/pwa.js
@@ -13,7 +13,7 @@ export function init(cb) {
   onChange = cb;
   if ('serviceWorker' in navigator && (location.protocol === 'https:' || location.hostname === 'localhost' || location.hostname === '127.0.0.1')) {
     // R60b: لو الصفحة خلصت تحميل قبل ما يوصل هالسطر، حدث load ما يرجع يصير — فنسجّل على طول (قبل كان الـ SW أحيانًا ما يتسجل أبدًا)
-    const reg = () => navigator.serviceWorker.register('/sw.js?v=r100').catch(() => {});
+    const reg = () => navigator.serviceWorker.register('/sw.js?v=r101').catch(() => {});
     if (document.readyState === 'complete') reg(); else window.addEventListener('load', reg);
     /* R69zz: لما تنزل نسخة جديدة من الموقع، نقول للاعب بدل ما يظل على القديمة */
     const hadController = !!navigator.serviceWorker.controller; let shown = false;

diff --git a/public/app-r69.js b/public/app-r69.js
@@ -1,6 +1,6 @@
 // R69za: تحسينات «التطبيق» — رقم الجهاز (لكشف الحسابات الوهمية)، شاشة «ما فيه نت» مع لعبة XO تشتغل بدون نت،
 // بانر «ثبّت لعبك على جوالك»، وعداد الإشعارات على أيقونة التطبيق.
-import * as PWA from './pwa.js?v=r100';
+import * as PWA from './pwa.js?v=r101';
 const KEY_DID = 'la3_did', KEY_DISMISS = 'la3_install_x';
 const CSS = `
 .ap69-off{position:fixed;inset:0;z-index:9500;display:flex;flex-direction:column;align-items:center;justify-content:flex-start;gap:12px;padding:calc(env(safe-area-inset-top,0px) + 30px) 18px 24px;background:radial-gradient(circle at 50% 20%,#4a1680,#160530 70%);color:#fff;direction:rtl;font-family:inherit;text-align:center;overflow:auto}
